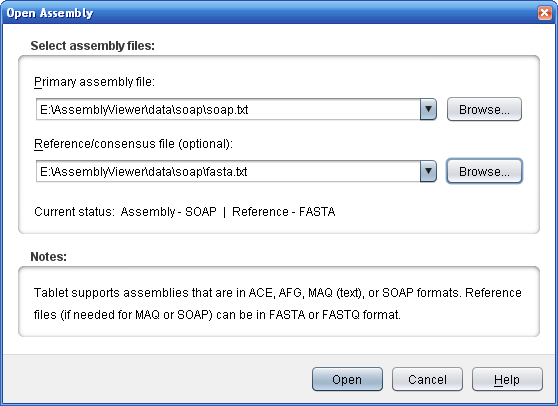
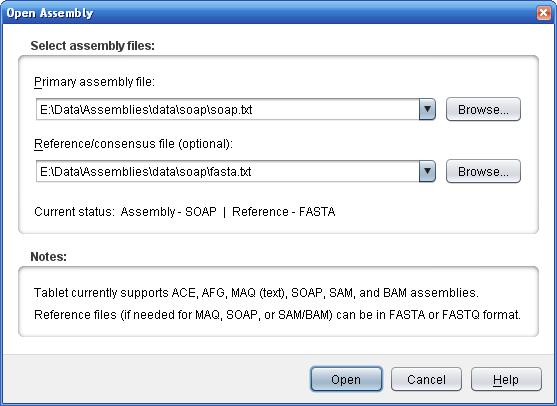
- NEW: Swapped the order in which data is written to the reads cache, so that the raw DNA data comes first (and can be read out quickly if only the DNA is needed, eg for display). - CHG: Updated the help files to cover sam/bam support.

diff --git a/src/tablet/data/cache/ReadFileCache.java b/src/tablet/data/cache/ReadFileCache.java
@@ -50,7 +50,7 @@ public class ReadFileCache extends TabletCache implements IReadCache
 		index.close();
 	}
 
-	public ReadMetaData getReadMetaData(int id)
+	public ReadMetaData getReadMetaData(int id, boolean dataOnly)
 	{
 		while (true)
 		{
@@ -65,21 +65,6 @@ public class ReadFileCache extends TabletCache implements IReadCache
 					long seekTo = index.getValue(id);
 					rnd.seek(seekTo);
 
-					// Read the length (in bytes) that the name takes up
-					int length = rnd.readIntFromBuffer();
-
-					// Make an array of this length
-					byte[] array = new byte[length];
-					// Then read its name from the file
-					rnd.read(array);
-					String name = new String(array, "UTF8");
-
-					// Then C or U
-					boolean isComplemented = rnd.readBooleanFromBuffer();
-
-					// Unpadded length
-					int unpaddedLength = rnd.readIntFromBuffer();
-
 					int dataLength = rnd.readIntFromBuffer();
 
 					byte[] data;
@@ -89,18 +74,41 @@ public class ReadFileCache extends TabletCache implements IReadCache
 						data = new byte[(dataLength/2)+1];
 					rnd.read(data);
 
-					int cigarLength = rnd.readIntFromBuffer();
+					if (dataOnly)
+					{
+						rmd = new ReadMetaData();
+						rmd.setRawData(data);
+					}
+					else
+					{
+						// Read the length (in bytes) that the name takes up
+						int length = rnd.readIntFromBuffer();
 
-					// Make an array of this length
-					byte[] cigar = new byte[cigarLength];
-					// Then read its name from the file
-					rnd.read(cigar);
-					String cigarString = new String(cigar, "UTF8");
+						// Make an array of this length
+						byte[] array = new byte[length];
+						// Then read its name from the file
+						rnd.read(array);
+						String name = new String(array, "UTF8");
 
-					rmd = new ReadMetaData(name, isComplemented, unpaddedLength);
-					rmd.setRawData(data);
-					rmd.setLength(dataLength);
-					rmd.setCigar(cigarString);
+						// Then C or U
+						boolean isComplemented = rnd.readBooleanFromBuffer();
+
+						// Unpadded length
+						int unpaddedLength = rnd.readIntFromBuffer();
+
+						rmd = new ReadMetaData(name, isComplemented, unpaddedLength);
+						rmd.setRawData(data);
+						rmd.setLength(dataLength);
+
+						// Read CIGAR data (but only with BAM assemblies)
+						if (Assembly.isBam())
+						{
+							byte[] cigar = new byte[rnd.readIntFromBuffer()];
+
+							rnd.read(cigar);
+							rmd.setCigar(new String(cigar, "UTF8"));
+						}
+					}
 				}
 				catch (Exception e)	{
 					e.printStackTrace();
@@ -119,6 +127,12 @@ public class ReadFileCache extends TabletCache implements IReadCache
 		// Update the index to mark the next position as in use by this Read
 		index.addValue(byteCount);
 
+		// Write out the length of the data
+		byte[] data = readMetaData.getRawData();
+		out.writeInt(readMetaData.length());
+		// And the data itself
+		out.write(data);
+
 		byte[] array = readMetaData.getName().getBytes("UTF8");
 
 		// Write the name
@@ -130,12 +144,6 @@ public class ReadFileCache extends TabletCache implements IReadCache
 
 		// Write out its unpadded length (length minus pad characters)
 		out.writeInt(readMetaData.getUnpaddedLength());
-
-		// Write out the length of the data
-		byte[] data = readMetaData.getRawData();
-		out.writeInt(readMetaData.length());
-		// And the data itself
-		out.write(data);
 
 		byte[] cigar = readMetaData.getCigar().getBytes("UTF8");
 

diff --git a/src/tablet/analysis/BaseMappingCalculator.java b/src/tablet/analysis/BaseMappingCalculator.java
@@ -43,8 +43,6 @@ public class BaseMappingCalculator extends SimpleJob
 	private void calculatePaddedToUnpadded()
 		throws Exception
 	{
-		long s = System.currentTimeMillis();
-
 		int length = c.length();
 
 		for (int i = 0, index = 0; i < length; i++)
@@ -55,8 +53,6 @@ public class BaseMappingCalculator extends SimpleJob
 			else
 				paddedToUnpadded.addValue(-1);
 		}
-
-		System.out.println("Pad->UnPad: " + (System.currentTimeMillis()-s) + "ms");
 	}
 
 	// Given an unpadded index value (0 to length-1) what index within the real
@@ -69,8 +65,6 @@ public class BaseMappingCalculator extends SimpleJob
 	private void calculateUnpaddedToPadded()
 		throws Exception
 	{
-		long s = System.currentTimeMillis();
-
 		int length = c.length();
 		int map = 0;
 
@@ -86,7 +80,5 @@ public class BaseMappingCalculator extends SimpleJob
 		// Any left over positions can't map to anything
 		for (; map < length; map++)
 			unpaddedToPadded.addValue(-1);
-
-		System.out.println("UnPad->Pad: " + (System.currentTimeMillis()-s) + "ms");
 	}
 }

diff --git a/src/tablet/gui/viewer/NameOverlayer.java b/src/tablet/gui/viewer/NameOverlayer.java
@@ -68,7 +68,7 @@ public class NameOverlayer extends Thread implements IOverlayRenderer
 			//loop over the reads, drawing them on screen.
 			for(Read read : reads)
 			{
-				ReadMetaData rmd = Assembly.getReadMetaData(read);
+				ReadMetaData rmd = Assembly.getReadMetaData(read, false);
 				g.drawString(rmd.getName(), ((read.getStartPosition()+rCanvas.offset)*rCanvas.ntW)+5, y);
 				y += rCanvas.ntH;
 			}
@@ -94,7 +94,7 @@ public class NameOverlayer extends Thread implements IOverlayRenderer
 			try { Thread.sleep(25); }
 			catch (InterruptedException e) { isOK = false; }
 		}
-		
+
 		if(hidden)
 		{
 			rCanvas.overlays.remove(this);

diff --git a/src/tablet/io/AfgFileReader.java b/src/tablet/io/AfgFileReader.java
@@ -235,7 +235,7 @@ class AfgFileReader extends TrackableReader
 
 		//retrieve the corresponding read from the array list using the internal id
 		//tile internal ID is 1-based but list is 0-based so need to subtract 1 here to get the right read
-		ReadMetaData readMetaData = tempCache.getReadMetaData(tileIID-1);
+		ReadMetaData readMetaData = tempCache.getReadMetaData(tileIID-1, false);
 		readMetaData.calculateUnpaddedLength();
 
 		Read read = new Read();

diff --git a/src/tablet/data/Assembly.java b/src/tablet/data/Assembly.java
@@ -99,9 +99,9 @@ public class Assembly implements Iterable<Contig>
 	 * Finds and returns the read meta data for the given read.
 	 * @return the read meta data for the given read
 	 */
-	public static ReadMetaData getReadMetaData(Read read)
+	public static ReadMetaData getReadMetaData(Read read, boolean dataOnly)
 	{
-		return cache.getReadMetaData(read.getID());
+		return cache.getReadMetaData(read.getID(), dataOnly);
 	}
 
 	/**

diff --git a/src/tablet/gui/FindPanel.java b/src/tablet/gui/FindPanel.java
@@ -263,7 +263,7 @@ public class FindPanel extends JPanel implements ListSelectionListener
 		 */
 		private void checkForMatches(Read read, String pattern, LinkedList<SearchResult> results, Contig contig)
 		{
-			ReadMetaData rmd = Assembly.getReadMetaData(read);
+			ReadMetaData rmd = Assembly.getReadMetaData(read, false);
 
 			Pattern p = Pattern.compile(pattern);
 			Matcher m = p.matcher(rmd.getName());

diff --git a/src/tablet/gui/viewer/ScaledOverviewFactory.java b/src/tablet/gui/viewer/ScaledOverviewFactory.java
@@ -63,7 +63,7 @@ class ScaledOverviewFactory extends OverviewBufferFactory
 				Read read = reads.getReadAt(dataY, dataX);
 				if (read != null)
 				{
-					ReadMetaData rmd = Assembly.getReadMetaData(read);
+					ReadMetaData rmd = Assembly.getReadMetaData(read, true);
 					byte b = rmd.getStateAt(dataX-read.getStartPosition());
 
 					g.setColor(rCanvas.colors.getColor(b));

diff --git a/src/tablet/data/cache/IReadCache.java b/src/tablet/data/cache/IReadCache.java
@@ -24,7 +24,7 @@ public interface IReadCache
 	 * Returns the read meta data for the read that matches the given ID.
 	 * @return the read meta data for the read that matches the given ID
 	 */
-	public ReadMetaData getReadMetaData(int id);
+	public ReadMetaData getReadMetaData(int id, boolean dataOnly);
 
 	/**
 	 * Adds new meta data about a read to the cache.

diff --git a/src/tablet/data/Pack.java b/src/tablet/data/Pack.java
@@ -112,7 +112,7 @@ public class Pack
 			int readS = read.getStartPosition();
 			int readE = read.getEndPosition();
 
-			ReadMetaData rmd = Assembly.getReadMetaData(read);
+			ReadMetaData rmd = Assembly.getReadMetaData(read, true);
 
 			// Fill in any blanks between the current index the next read
 			for (; index < readS; index++, dataI++)

diff --git a/src/tablet/data/StackSet.java b/src/tablet/data/StackSet.java
@@ -41,7 +41,7 @@ class StackSet implements IReadManager
 		int readS = read.getStartPosition();
 		int readE = read.getEndPosition();
 
-		ReadMetaData rmd = Assembly.getReadMetaData(read);
+		ReadMetaData rmd = Assembly.getReadMetaData(read, true);
 
 		// Fill in any blanks between the current position and the start of
 		// this read

diff --git a/src/tablet/analysis/ReadsSummarySaver.java b/src/tablet/analysis/ReadsSummarySaver.java
@@ -42,7 +42,7 @@ public class ReadsSummarySaver extends SimpleJob
 			if (!okToRun)
 				break;
 
-			ReadMetaData rmd = Assembly.getReadMetaData(read);
+			ReadMetaData rmd = Assembly.getReadMetaData(read, false);
 			lastRead = rmd.getName();
 
 			out.write(lastRead + "\t" + (read.getStartPosition() + 1)

diff --git a/src/tablet/gui/viewer/OutlinerOverlay.java b/src/tablet/gui/viewer/OutlinerOverlay.java
@@ -38,7 +38,7 @@ class OutlinerOverlay implements IOverlayRenderer
 
 		if (read != null)
 		{
-			ReadMetaData data = Assembly.getReadMetaData(read);
+			ReadMetaData data = Assembly.getReadMetaData(read, false);
 
 			// Start and ending positions (against consensus)
 			readS = read.getStartPosition();
